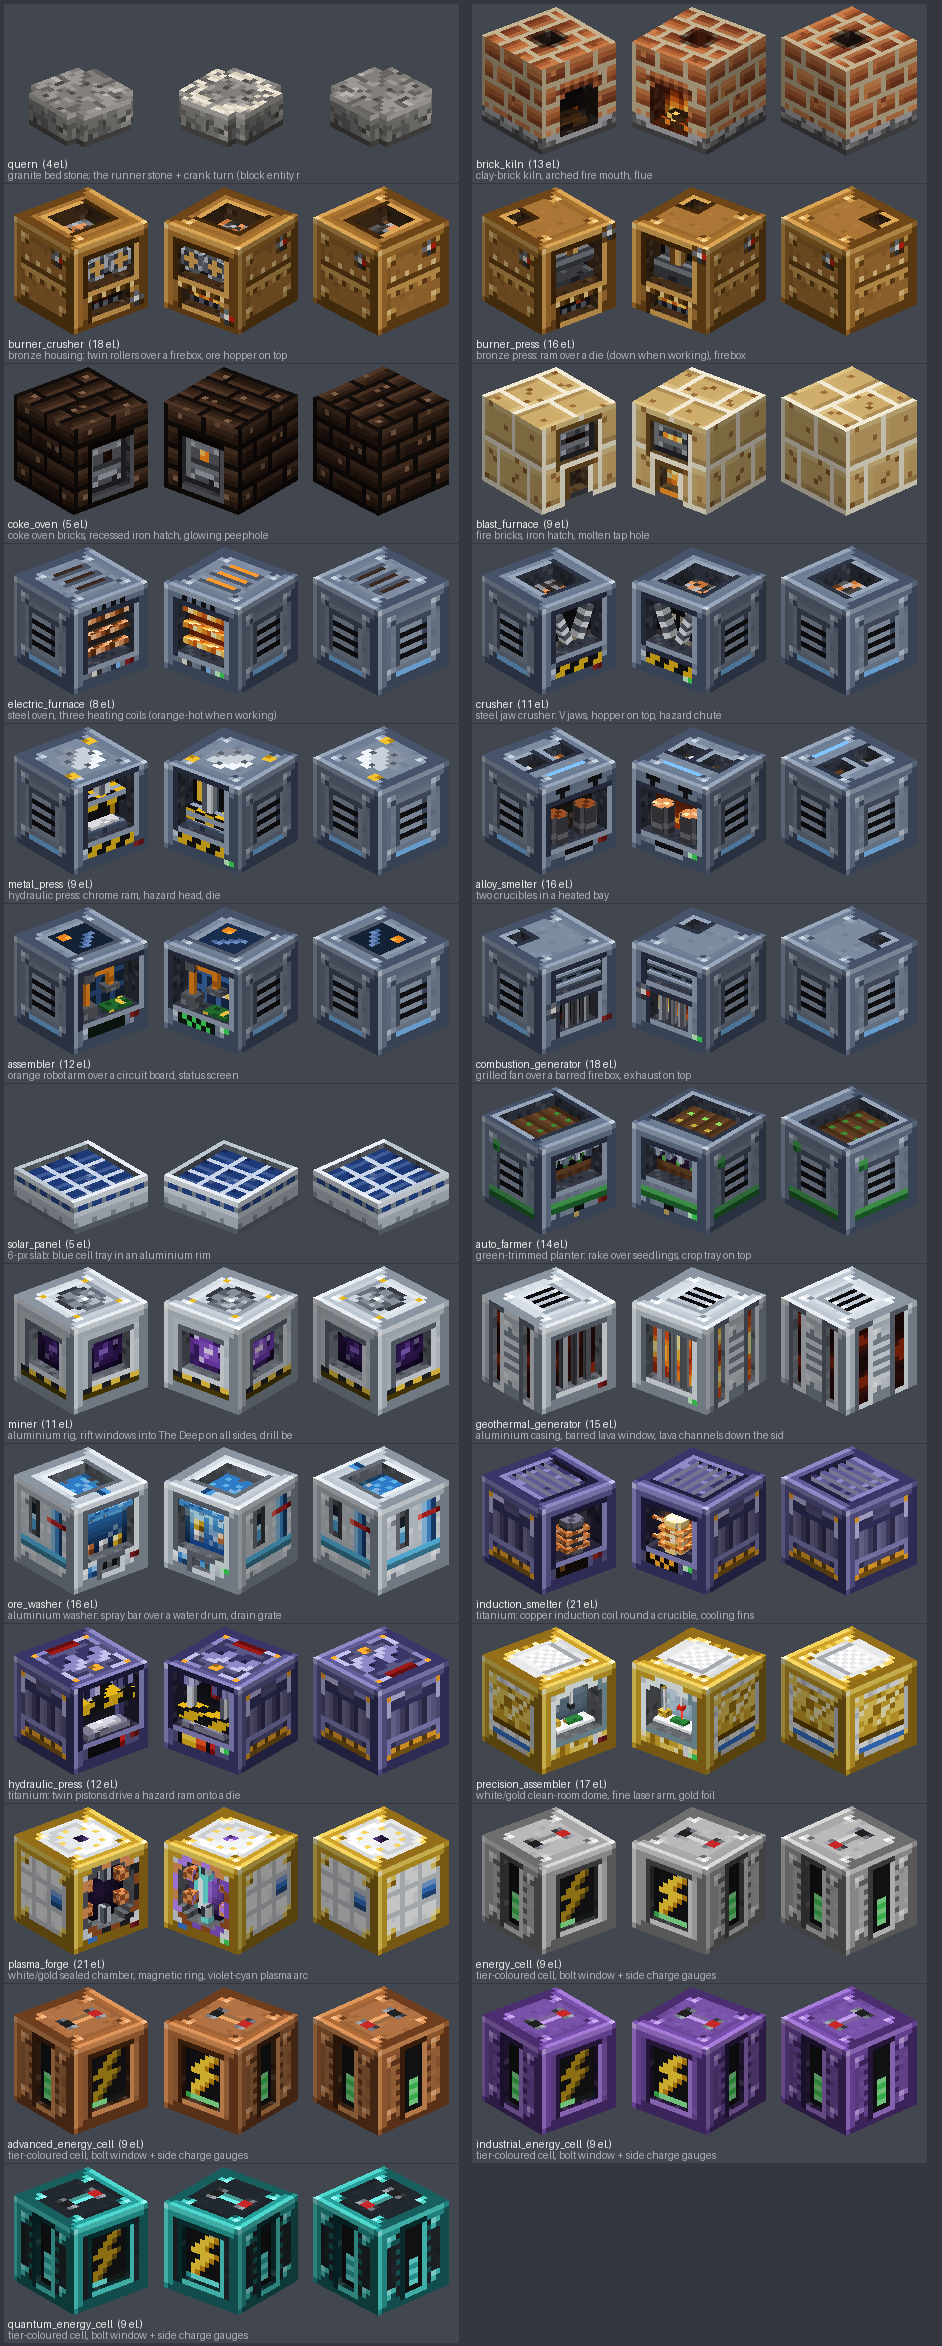
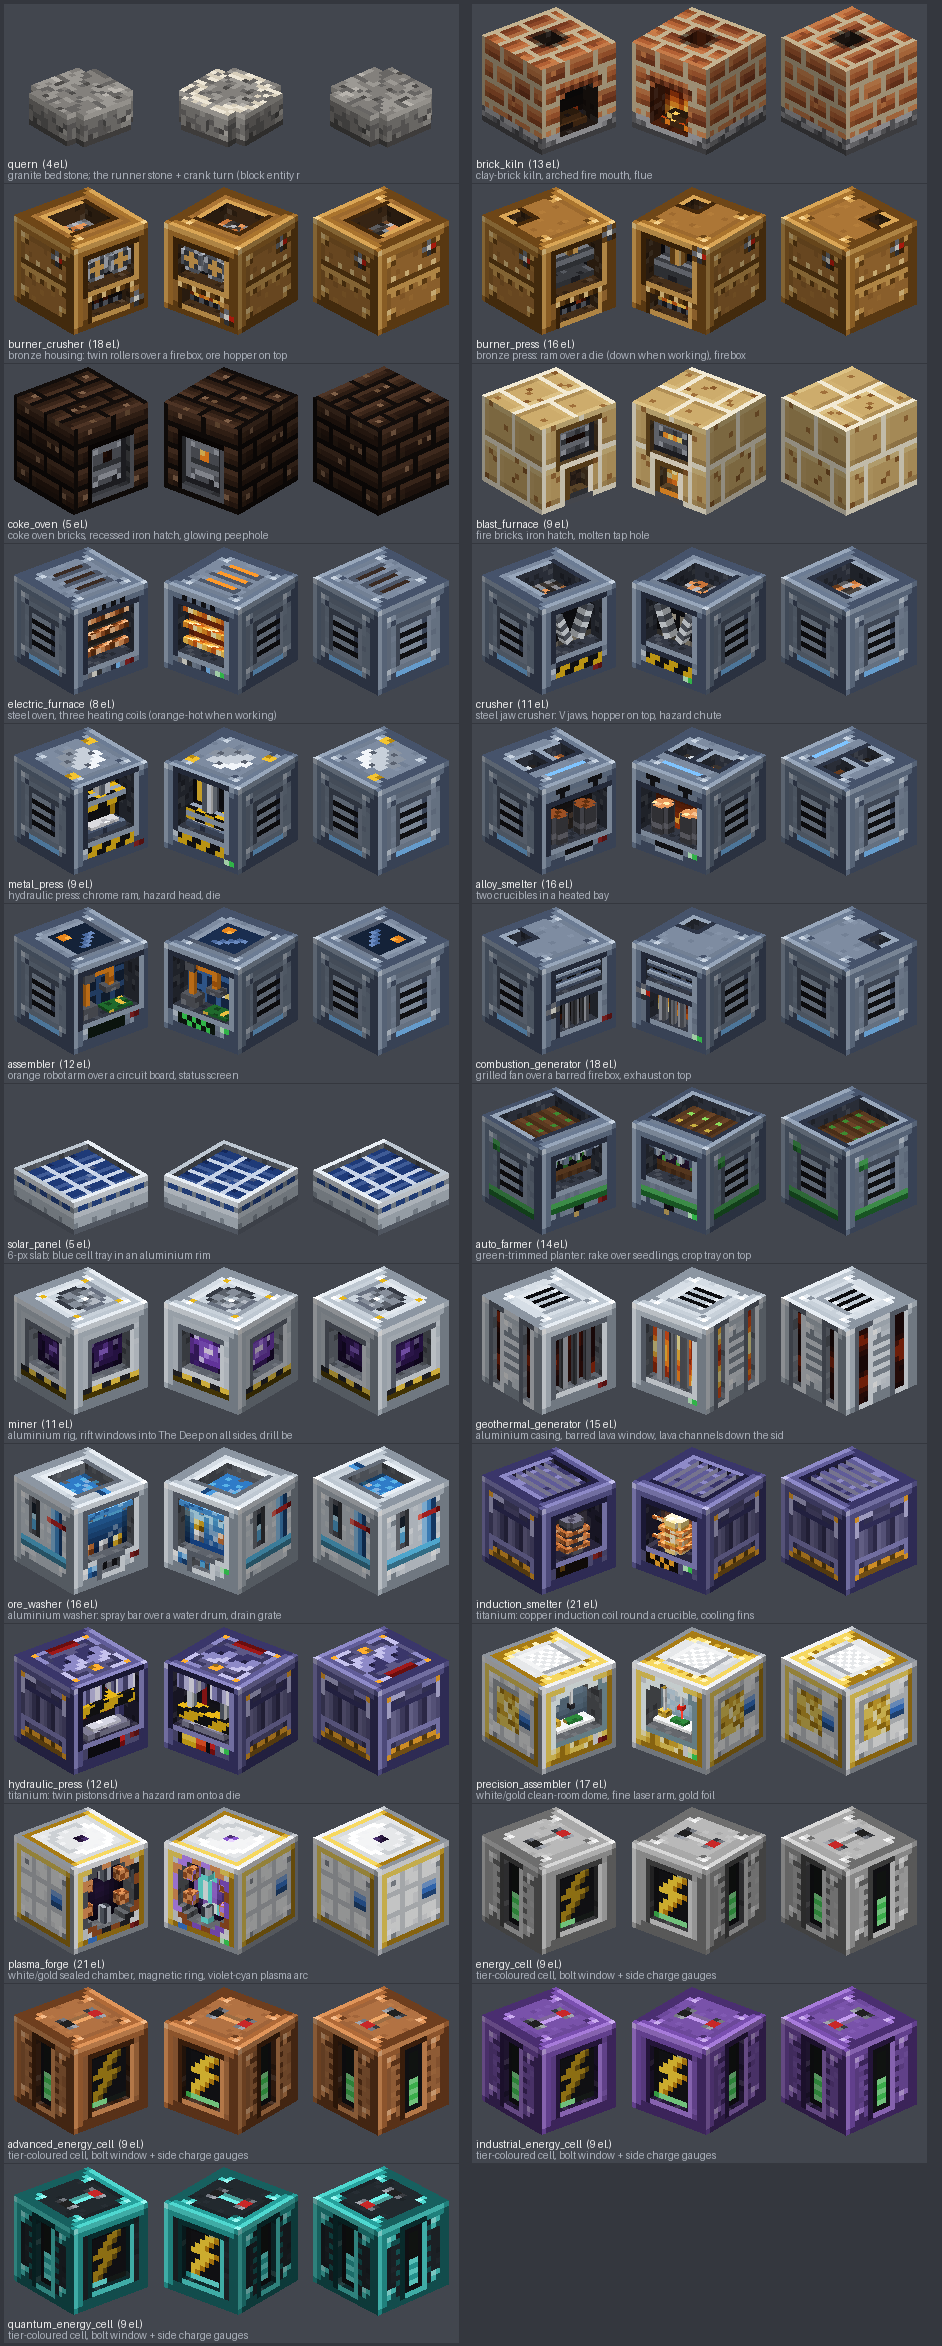
WIP snapshot: agents' work in progress (drill redesign, satellites, rays, machine art)
Claude-Session: https://claude.ai/code/session_01SnzqTvBuYSofLuoR29zXXc

Changed region(s): [[0.4926, 0.6846, 0.9851, 0.7779], [0.0, 0.7157, 0.4926, 0.8402], [0.1847, 0.7157, 0.2463, 0.7468]]

diff --git a/tools/gen_textures.py b/tools/gen_textures.py
@@ -911,7 +911,8 @@ def family_side(T, rng, kind):
         t.hline(3, 12, 12, T.accent); t.hline(3, 12, 13, darken(T.accent, 0.45))
         for x in (4, 7, 10):
             t.set(x, 12, darken(T.accent, 0.6))
-    elif kind == "orbital":     # white heat-shield tiles, gold seams, blue mission stripe
+    elif kind == "orbital":     # white heat-shield tiles, blue mission stripe, gold trim
+        gold_trim(t)
         t.rect(2, 2, 13, 13, P[1])
         for y in range(2, 14):
             for x in range(2, 14):
@@ -1522,6 +1523,23 @@ def ti_brackets(t, name, face="north"):
         t.set(cx, cy, TITAN_T.accent)
 
 
+def gold_trim(t):
+    """Orbital casings: a gold inner ring on the white frame."""
+    for i in range(1, 15):
+        t.set(i, 1, GOLD_FOIL[3]); t.set(1, i, GOLD_FOIL[3])
+        t.set(i, 14, GOLD_FOIL[1]); t.set(14, i, GOLD_FOIL[1])
+    t.set(1, 14, GOLD_FOIL[2]); t.set(14, 1, GOLD_FOIL[2])
+
+
+def orb_face(rng, name=None, face="north", rivets=((2, 2), (12, 2), (2, 12), (12, 12))):
+    t = casing_face(ORBITAL_T, rng, name, face, rivets=())
+    gold_trim(t)
+    for (x, y) in rivets:
+        if name is None or not any(in_window(name, face, x + dx, y + dy) for dx in (-1, 0, 1, 2) for dy in (-1, 0, 1, 2)):
+            rivet(t, x, y, ORBITAL_T, pal=[GOLD_FOIL[4], GOLD_FOIL[3], GOLD_FOIL[2], GOLD_FOIL[1], GOLD_FOIL[0]])
+    return t
+
+
 def ti_face(rng, name=None, face="north"):
     t = casing_face(TITAN_T, rng, name, face, rivets=())
     ti_brackets(t, name, face)
@@ -1779,7 +1797,7 @@ def dome_rim(t, name):
 
 def passembler_front(rng, on):
     name = "precision_assembler"
-    t = casing_face(ORBITAL_T, rng, name, rivets=((2, 12), (12, 12)))
+    t = orb_face(rng, name, rivets=((2, 12), (12, 12)))
     W = win_pixels(name)
     vs = [v for _, v in W]
     v0, v1 = min(vs), max(vs)
@@ -1802,7 +1820,7 @@ def passembler_front(rng, on):
 def passembler_top(rng):
     """HEPA filter grille of the clean room between gold foil strips."""
     T = ORBITAL_T
-    t = casing_face(T, rng)
+    t = orb_face(rng)
     recess(t, 4, 4, 11, 11, T, fill=T.panel[3])
     for y in range(5, 11):
         for x in range(5, 11):
@@ -1814,10 +1832,8 @@ def passembler_top(rng):
 
 def passembler_side(rng):
     t = family_side(ORBITAL_T, rng, "orbital")
-    t.rect(3, 3, 12, 10, GOLD_FOIL[1])
-    gold_foil(t, rng_for("pa/sidefoil"), 3, 3, 12, 9)
-    t.hline(3, 12, 10, GOLD_FOIL[0])
-    t.hline(3, 12, 12, ORBITAL_T.accent)
+    recess(t, 3, 3, 9, 10, ORBITAL_T)
+    gold_foil(t, rng_for("pa/sidefoil"), 4, 4, 9, 10)
     return t
 
 
@@ -1826,7 +1842,7 @@ def passembler_side(rng):
 
 def plasma_front(rng, on, phase=0):
     name = "plasma_forge"
-    t = casing_face(ORBITAL_T, rng, name, rivets=((2, 2), (12, 2), (2, 12), (12, 12)))
+    t = orb_face(rng, name)
     W = win_pixels(name)
     cx, cy = 8.0, 7.5
     # magnetic ring: copper windings between dark pole shoes, energised violet when on
@@ -1844,9 +1860,9 @@ def plasma_front(rng, on, phase=0):
     arc = {}
     if on:
         ar = rng_for("pf/arc%d" % phase)
-        x = cx - 0.5
-        for v in range(4, 12):
-            x = max(5.0, min(10.0, x + ar.choice((-1, 0, 0, 1))))
+        x = 7.0
+        for v in range(4, 12):     # jagged arc between the electrode tips (u 7-8)
+            x = max(6.0, min(9.0, x + ar.choice((-1, 0, 0, 1)))) if 5 < v < 10 else (7.0 if v < 8 else 8.0)
             arc[v] = int(x)
     for (u, v) in W:
         d = math.hypot((u + 0.5 - cx) / 5.0, (v + 0.5 - cy) / 5.5)
@@ -1876,7 +1892,7 @@ def plasma_front(rng, on, phase=0):
 def plasma_top(rng, on):
     """Sealed round hatch with a gold bolt circle and a violet sight port."""
     T = ORBITAL_T
-    t = casing_face(T, rng)
+    t = orb_face(rng, rivets=())
     for (x, y) in sorted(disc_mask(8, 8, 5.2)):
         dx, dy = x + 0.5 - 8, y + 0.5 - 8
         d = math.hypot(dx, dy)

diff --git a/tools/models/gen_models.py b/tools/models/gen_models.py
@@ -611,13 +611,13 @@ def m_hydraulic_press():
     tx = fam("titanium", front=i + "_front", top=i + "_top", cyl=i + "_cylinder", rod=i + "_rod",
              ram=i + "_ram", die=i + "_die", plate=i + "_plate")
     b = carved(i, STD)
-    fixed = [Box((3, 13, 0.5), (6, 15, 3.5), "cyl"), Box((10, 13, 0.5), (13, 15, 3.5), "cyl"),
+    fixed = [Box((2.5, 12, 0.5), (6.5, 15, 3.5), "cyl"), Box((9.5, 12, 0.5), (13.5, 15, 3.5), "cyl"),
              Box((3.5, 5, 0.5), (12.5, 6, 3.5), "die"), Box((5, 6, 1), (11, 6.5, 3), "plate")]
 
     def ram(y):
-        return [Box((4, y + 2, 1.25), (5, 13, 2.75), "rod"), Box((11, y + 2, 1.25), (12, 13, 2.75), "rod"),
+        return [Box((4, y + 2, 1.25), (5, 12, 2.75), "rod"), Box((11, y + 2, 1.25), (12, 12, 2.75), "rod"),
                 Box((2.5, y, 0.5), (13.5, y + 2, 3.5), "ram")]
-    return Model(i, tx, b + fixed + ram(10), on={"front": i + "_front_on"}, boxes_on=b + fixed + ram(6.5),
+    return Model(i, tx, b + fixed + ram(9.5), on={"front": i + "_front_on"}, boxes_on=b + fixed + ram(6.5),
                  particle="titanium_machine_side", desc="titanium: twin pistons drive a hazard ram onto a die")
 
 

diff --git a/tools/features/orbital.py b/tools/features/orbital.py
@@ -110,8 +110,7 @@ def lang(L):
     L(f"{I}.uplink_satellite", "Uplink Satellite", "Satélite de enlace")
     L(f"{I}.rocket_fuel", "Rocket Fuel", "Combustible de cohete")
     L(f"{I}.wireless_terminal", "Wireless Terminal", "Terminal inalámbrica")
-    L(f"{I}.survey_map", "Survey Map", "Mapa de reconocimiento")
-    L(f"itemGroup.{MOD}.orbital", "Factory Ascent: Orbital", "Factory Ascent: Orbital")
+    L(f"{O}.survey_map", "Survey Map", "Mapa de reconocimiento")
     L(f"{O}.type.survey", "Survey", "Reconocimiento")
     L(f"{O}.type.uplink", "Uplink", "Enlace")
     L(f"{O}.dimension.minecraft.overworld", "the Overworld", "el Mundo Superior")

diff --git a/src/main/java/net/juli2kapo/factoryascent/orbital/SurveyMapper.java b/src/main/java/net/juli2kapo/factoryascent/orbital/SurveyMapper.java
@@ -63,7 +63,7 @@ public final class SurveyMapper {
         level.setMapData(id, data);
         ItemStack map = new ItemStack(Items.FILLED_MAP);
         map.set(DataComponents.MAP_ID, id);
-        map.set(DataComponents.ITEM_NAME, Component.translatable("item.factoryascent.survey_map"));
+        map.set(DataComponents.ITEM_NAME, Component.translatable("orbital.factoryascent.survey_map"));
         MapItemSavedData.addTargetDecoration(map, station, "ground_station", MapDecorationTypes.TARGET_POINT);
         int n = 0;
         for (ChunkPos rich : oreRichChunks(level, station)) {
